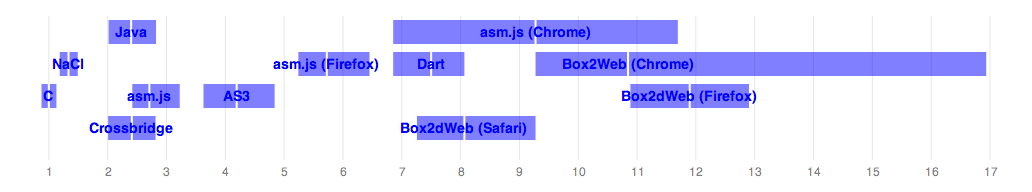
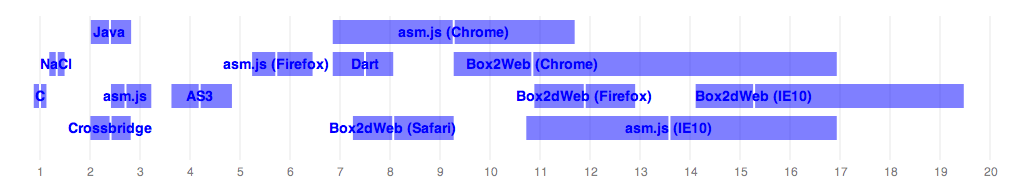
README updates.

diff --git a/nodebox/graph.py b/nodebox/graph.py
@@ -22,7 +22,9 @@ DATA = [
   ["Box2dWeb (Safari)", 20.0, 18.0, 23.0, 1],
   ["asm.js (Chrome)", 23.0, 17.0, 29.0, -2],
   ["Box2Web (Chrome)", 26.9, 23.0, 42.0, -1],
-  ["Box2dWeb (Firefox)", 29.5, 27.0, 32.0, 0]
+  ["Box2dWeb (Firefox)", 29.5, 27.0, 32.0, 0],
+  ["asm.js (IE10)", 33.7, 26.6, 42.0, 1],
+  ["Box2dWeb (IE10)", 37.9, 35.0, 48.3, 0]
 ]
 
 BASELINE = DATA[0][1]
@@ -73,7 +75,6 @@ def renderTicks():
     font("Helvetica", 12)
     align(CENTER)
 
-    print(RANGE)
     for x in range(1, int(RANGE+1), STEP):
         line(scale(x), 0, scale(x), FHEIGHT - 16)
         w = textwidth(str(x))
@@ -81,6 +82,6 @@ def renderTicks():
 
 size(FWIDTH + BORDER_SIZE*2, FHEIGHT + BORDER_SIZE*2)
 translate(-10, BORDER_SIZE)
-# RANGE = computeRange()
+RANGE = math.ceil(computeRange())
 renderTicks()
 renderIntervals()

diff --git a/README.md b/README.md
@@ -3,39 +3,57 @@
 A simple VM performance benchmark suite that attempts to guage the performance of various VMs on a real-world
 workload using the Box2D (http://box2d.org/) physics library. This library is particularly suited to benchmarking
 VM performance because it's compute-intensive, often a real-world performance bottleneck in games, and has been
-ported to many languages. You can find more background [here](http://j15r.com/blog/2011/12/15/Box2D_as_a_Measure_of_Runtime_Performance)
-and [here](http://j15r.com/blog/2013/04/25/Box2d_Revisited).
+ported to many languages. You can find more background [here](http://j15r.com/blog/2011/12/15/Box2D_as_a_Measure_of_Runtime_Performance),
+[here](http://j15r.com/blog/2013/04/25/Box2d_Revisited), and [here](http://j15r.com/blog/2013/04/25/Box2d_Addendum).
 
 ### Current results (as of 5 July 2013):
 
 <center>
   <table>
-  <tr><td>C (gcc 4.8)</td>              <td>ms/frame: 2.48</td><td>5th %ile: 2.17</td><td>95th %ile: 2.80</td></tr>
-  <tr><td>NaCl (x86-32)</td>            <td>ms/frame: 3.31</td><td>5th %ile: 2.94</td><td>95th %ile: 3.70</td></tr>
-  <tr><td>Flash/Crossbridge (*)</td>    <td>ms/frame: 5.98</td><td>5th %ile: 4.98</td><td>95th %ile: 6.98</td></tr>
-  <tr><td>Java (1.8)</td>               <td>ms/frame: 5.95</td><td>5th %ile: 5.00</td><td>95th %ile: 7.00</td></tr>
-  <tr><td>asm.js (**)</td>              <td>ms/frame: 6.72</td><td>5th %ile: 6.00</td><td>95th %ile: 8.00</td></tr>
-  <tr><td>AS3</td>                      <td>ms/frame: 10.4</td><td>5th %ile: 9.00</td><td>95th %ile: 12.0</td></tr>
-  <tr><td>asm.js (Firefox)</td>         <td>ms/frame: 14.2</td><td>5th %ile: 13.0</td><td>95th %ile: 16.0</td></tr>
-  <tr><td>Dart</td>                     <td>ms/frame: 18.6</td><td>5th %ile: 17.0</td><td>95th %ile: 20.0</td></tr>
-  <tr><td>Box2dWeb (Safari)</td>        <td>ms/frame: 20.0</td><td>5th %ile: 18.0</td><td>95th %ile: 23.0</td></tr>
-  <tr><td>asm.js (Chrome)</td>          <td>ms/frame: 23.0</td><td>5th %ile: 17.0</td><td>95th %ile: 29.0</td></tr>
-  <tr><td>Box2Web (Chrome)</td>         <td>ms/frame: 26.9</td><td>5th %ile: 23.0</td><td>95th %ile: 42.0</td></tr>
-  <tr><td>Box2dWeb (Firefox)</td>       <td>ms/frame: 29.5</td><td>5th %ile: 27.0</td><td>95th %ile: 32.0</td></tr>
+    <tr><th></th>                         <th>ms/frame</th><th>5th %ile</th><th>95th %ile</th><th>Ratio to C</th></tr>
+    <tr><td>C (gcc 4.8)</td>              <td>2.48</td><td>2.17</td><td>2.80</td><td>1.00</td></tr>
+    <tr><td>NaCl (x86-32)</td>            <td>3.31</td><td>2.94</td><td>3.70</td><td>1.34</td></tr>
+    <tr><td>Java (1.8)</td>               <td>5.95</td><td>5.00</td><td>7.00</td><td>2.40</td></tr>
+    <tr><td>Flash/Crossbridge (*)</td>    <td>5.98</td><td>4.98</td><td>6.98</td><td>2.41</td></tr>
+    <tr><td>asm.js (**)</td>              <td>6.72</td><td>6.00</td><td>8.00</td><td>2.71</td></tr>
+    <tr><td>AS3</td>                      <td>10.4</td><td>9.00</td><td>12.0</td><td>4.19</td></tr>
+    <tr><td>asm.js (Firefox)</td>         <td>14.2</td><td>13.0</td><td>16.0</td><td>5.73</td></tr>
+    <tr><td>Dart</td>                     <td>18.6</td><td>17.0</td><td>20.0</td><td>7.50</td></tr>
+    <tr><td>Box2dWeb (Safari)</td>        <td>20.0</td><td>18.0</td><td>23.0</td><td>8.07</td></tr>
+    <tr><td>asm.js (Chrome)</td>          <td>23.0</td><td>17.0</td><td>29.0</td><td>9.27</td></tr>
+    <tr><td>Box2dWeb (Chrome)</td>        <td>26.9</td><td>23.0</td><td>42.0</td><td>10.9</td></tr>
+    <tr><td>Box2dWeb (Firefox)</td>       <td>29.5</td><td>27.0</td><td>32.0</td><td>12.0</td></tr>
+    <tr><td>asm.js (IE10) (***)</td>      <td>33.7</td><td>26.6</td><td>42.0</td><td>13.6</td></tr>
+    <tr><td>Box2dWeb (IE10) (***)</td>    <td>37.9</td><td>35.0</td><td>48.3</td><td>15.3</td></tr>
+    <tr><td>asm.js (Safari) (****)</td>   <td>-</td><td>-</td><td>-</td><td>-</td></tr>
   </table>
-</center>
 
-<center>
+  (*) Crossbridge has awful clock() resolution, so I just assumed +/- 1ms
+  percentiles.
+
+  (**) Here, 'asm.js' refers to the asm.js output running in Firefox Nightly,
+  with full optimizations.
+
+  (***) I don't have any easy way to run Windows natively on my Mac (I'm not
+  going to setup dual boot partitions just for this benchmark), so I had to try
+  and back out IE10 numbers using VirtualBox. I calculated a performance penalty
+  ratio by running the Javascript benchmarks on Chrome/Mac and Chrome/Win (VM)
+  (`38.5ms / 26.9ms = 1.43x`), then used that to adjust the IE10 numbers. There
+  are all sorts of things that could be wrong with this, but I expect it at
+  least gives us a rough idea.
+
+  (****) asm.js unfortunately hung on Safari and never recovered. Hopefully
+  this will be sorted out at some point.
+
+  [Test platform: MacBook Pro, 2.5 GHz i7, 16G memory, Mac OS X 10.8.4.
+   All platform and compiler versions are latest unless otherwise specified.]
+
   ![](graph.png)
-  Scaled to multiples of native performance.
+
+  Scaled to multiples of native performance. The white line denotes the mean,
+  and the edges of   the box denote the 5th and 95th %iles.
 </center>
 
-(*) Crossbridge has awful clock() resolution, so I just assumed +/- 1ms percentiles.
-
-(**) Here, 'asm.js' refers to the asm.js output running in Firefox Nightly, with full optimizations.
-
-[Test platform: MacBook Pro, 2.5 GHz i7, 16G memory, Mac OS X 10.8.4.
- All platform and compiler versions are latest unless otherwise specified.]
 
 ### Mini FAQ:
 
